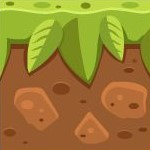
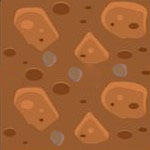
Improved Terrain and Background

diff --git a/client/src/objects/terrain.js b/client/src/objects/terrain.js
@@ -1,30 +1,38 @@
 import Phaser from 'phaser';
 
 export class Terrain extends Phaser.GameObjects.Sprite {
-    constructor(scene, x, y, dirtTile, player) {
+    constructor(scene, x, y, grassTile, dirtTile, player) {
         super(scene, x, y);
 
         var tileSize = 70;
+        var collider;
+        var tile;
 
         const grid = [ 
         [0, 0, 0, 0, 0, 0, 0, 0, 0, 0, 0, 0, 0, 0, 0, 0, 0, 0, 0, 0, 0, 0, 0, 0, 0, 0, 0, 0, 0, 0, 0, 0, 0, 0, 0, 0, 0, 0, 0, 0, 0, 0, 0, 0, 0, 0, 0, 0, 0, 0, 0, 0, 0, 0, 0, 0, 0, 0, 0, 0],
         [0, 0, 0, 0, 0, 0, 0, 0, 0, 0, 0, 0, 0, 0, 0, 0, 0, 0, 0, 0, 0, 0, 0, 0, 0, 0, 0, 0, 0, 0, 0, 0, 0, 0, 0, 0, 0, 0, 0, 0, 0, 0, 0, 0, 0, 0, 0, 0, 0, 0, 0, 0, 0, 0, 0, 0, 0, 0, 0, 0],
-        [0, 0, 0, 0, 0, 0, 0, 0, 0, 0, 0, 0, 0, 0, 0, 0, 0, 0, 0, 0, 0, 0, 0, 0, 0, 0, 0, 0, 0, 0, 0, 0, 1, 1, 1, 0, 0, 0, 0, 0, 0, 0, 0, 0, 0, 0, 0, 0, 0, 0, 0, 0, 0, 0, 0, 0, 0, 0, 0, 0],
-        [0, 0, 0, 0, 0, 0, 0, 0, 0, 0, 0, 0, 0, 0, 0, 0, 0, 0, 0, 0, 0, 0, 0, 0, 0, 0, 0, 0, 0, 0, 0, 1, 0, 0, 0, 0, 0, 0, 0, 0, 0, 0, 0, 0, 0, 0, 0, 0, 0, 0, 0, 0, 0, 0, 0, 0, 0, 0, 0, 0],
+        [0, 0, 0, 0, 0, 0, 0, 0, 0, 0, 0, 0, 0, 0, 0, 0, 0, 0, 0, 0, 0, 0, 0, 0, 0, 0, 0, 0, 0, 0, 0, 0, 1, 1, 1, 1, 0, 0, 0, 0, 0, 0, 0, 0, 0, 0, 0, 0, 0, 0, 0, 0, 0, 0, 0, 0, 0, 0, 0, 0],
+        [0, 0, 0, 0, 0, 0, 0, 0, 0, 0, 0, 0, 0, 0, 0, 0, 0, 0, 0, 0, 0, 0, 0, 0, 0, 0, 0, 0, 0, 0, 0, 0, 0, 0, 0, 0, 0, 0, 0, 0, 0, 0, 0, 0, 0, 0, 0, 0, 0, 0, 0, 0, 0, 0, 0, 0, 0, 0, 0, 0],
         [0, 0, 0, 0, 0, 0, 0, 0, 0, 0, 0, 0, 0, 0, 0, 0, 0, 0, 0, 0, 0, 0, 0, 0, 0, 0, 0, 0, 0, 0, 0, 0, 0, 0, 0, 0, 0, 0, 1, 1, 0, 0, 0, 0, 0, 0, 0, 0, 0, 0, 0, 0, 0, 0, 0, 0, 0, 0, 0, 0],
-        [0, 0, 0, 0, 0, 0, 0, 0, 1, 1, 0, 0, 0, 1, 1, 1, 1, 1, 1, 1, 0, 0, 0, 0, 0, 0, 0, 0, 1, 1, 0, 0, 0, 1, 1, 1, 1, 1, 1, 0, 0, 0, 0, 0, 0, 0, 0, 0, 1, 1, 0, 0, 0, 1, 1, 1, 1, 1, 1, 1],
+        [0, 0, 0, 0, 0, 0, 0, 0, 1, 1, 0, 0, 0, 1, 1, 1, 1, 1, 1, 1, 0, 0, 0, 0, 0, 0, 0, 0, 1, 1, 0, 0, 0, 1, 1, 1, 1, 1, 2, 0, 0, 0, 0, 0, 0, 0, 0, 0, 1, 1, 0, 0, 0, 1, 1, 1, 1, 1, 1, 1],
         [0, 0, 0, 0, 0, 0, 0, 0, 0, 0, 0, 0, 0, 0, 0, 0, 0, 0, 0, 0, 0, 0, 0, 0, 0, 0, 0, 0, 0, 0, 0, 0, 0, 0, 0, 0, 0, 0, 0, 0, 0, 0, 0, 0, 0, 0, 0, 0, 0, 0, 0, 0, 0, 0, 0, 0, 0, 0, 0, 0],
         [0, 0, 0, 1, 1, 1, 0, 0, 0, 0, 0, 0, 0, 0, 0, 0, 0, 0, 0, 0, 0, 0, 0, 0, 1, 1, 1, 0, 0, 0, 0, 0, 0, 0, 0, 0, 0, 0, 0, 0, 0, 0, 1, 1, 1, 1, 0, 0, 0, 0, 0, 0, 0, 0, 0, 0, 0, 0, 0, 0],
         [0, 0, 0, 0, 0, 0, 0, 0, 0, 0, 0, 1, 1, 1, 1, 1, 1, 1, 1, 1, 0, 0, 0, 0, 0, 0, 0, 0, 0, 0, 0, 1, 1, 0, 0, 0, 0, 0, 0, 1, 0, 0, 0, 0, 0, 0, 0, 0, 0, 0, 0, 1, 1, 1, 1, 1, 1, 1, 1, 1],
-        [0, 0, 0, 0, 0, 0, 0, 0, 0, 1, 1, 1, 1, 1, 1, 1, 1, 1, 1, 1, 1, 0, 0, 1, 0, 0, 0, 0, 0, 1, 1, 1, 1, 0, 0, 0, 0, 0, 1, 1, 0, 0, 0, 0, 0, 0, 0, 0, 0, 1, 1, 1, 1, 1, 1, 1, 1, 1, 1, 1],
-        [1, 1, 1, 1, 1, 0, 0, 0, 1, 1, 1, 1, 1, 1, 1, 1, 1, 1, 1, 1, 1, 1, 1, 0, 0, 0, 0, 0, 1, 1, 1, 1, 1, 1, 1, 1, 1, 1, 1, 1, 0, 0, 0, 0, 0, 0, 1, 1, 1, 1, 1, 1, 1, 1, 1, 1, 1, 1, 1, 1]
+        [0, 0, 0, 0, 0, 0, 0, 0, 0, 1, 1, 2, 2, 2, 2, 2, 2, 2, 2, 2, 1, 1, 1, 1, 0, 0, 0, 0, 0, 1, 1, 2, 2, 0, 0, 0, 0, 0, 1, 2, 0, 0, 0, 0, 0, 0, 0, 0, 0, 1, 1, 2, 2, 2, 2, 2, 2, 2, 2, 2],
+        [1, 1, 1, 1, 1, 0, 0, 0, 1, 2, 2, 2, 2, 2, 2, 2, 2, 2, 2, 2, 2, 2, 2, 2, 0, 0, 0, 0, 1, 2, 2, 2, 2, 1, 1, 1, 1, 1, 2, 2, 0, 0, 0, 0, 0, 0, 1, 1, 1, 2, 2, 2, 2, 2, 2, 2, 2, 2, 2, 2]
     ];
 
         for (let i = 0; i < grid.length; i++) {
             for (let j = 0; j < grid[i].length; j++) {
                 if (grid[i][j] == 1) {
-                    var tile = scene.physics.add.sprite(j*tileSize, i*tileSize, dirtTile).setDisplaySize(tileSize, tileSize).setOrigin(0, 0);
-                    var collider = scene.physics.add.collider(player, tile);
+                    tile = scene.physics.add.sprite(j*tileSize, i*tileSize, grassTile).setDisplaySize(tileSize, tileSize).setOrigin(0, 0);
+                    collider = scene.physics.add.collider(player, tile);
+                    tile.setImmovable(true);
+                    tile.body.allowGravity = false;
+                }
+                else if(grid[i][j] == 2){
+                    tile = scene.physics.add.sprite(j*tileSize, i*tileSize, dirtTile).setDisplaySize(tileSize, tileSize).setOrigin(0, 0);
+                    collider = scene.physics.add.collider(player, tile);
                     tile.setImmovable(true);
                     tile.body.allowGravity = false;
                 }

diff --git a/client/src/index.js b/client/src/index.js
@@ -1,6 +1,7 @@
 import Phaser from 'phaser';
 import { Terrain } from './objects/terrain';
 
+import grassTileImg from './assets/grassTile.jpg';
 import dirtTileImg from './assets/dirtTile.jpg';
 import backgroundImg from './assets/oblakiBG.jpg'
 import { Player } from './objects/player';
@@ -18,17 +19,20 @@ class Game extends Phaser.Scene {
 
     preload() {
         this.load.image('dirtTile', dirtTileImg);
+        this.load.image('grassTile', grassTileImg);
         this.load.image('background', backgroundImg);
         this.load.image('player', playerImg);
     }
 
     create() {
-        this.add.image(0, 0, 'background').setOrigin(0, 0).setScale(2.7);
-        
-        this.player = new Player(this, 150, 650, 'player');
+
+        this.bg = this.add.image(0, 0, 'background').setOrigin(0, 0).setScale(0.8);
+        this.player = new Player(this, 100, 650, 'player');
         this.add.existing(this.player);
-        this.cameras.main.startFollow(this.player, false, 1, 1, -550, 200);
-        this.add.existing(new Terrain(this, 0, 0, 'dirtTile', this.player));
+        this.cameras.main.startFollow(this.player, false, 1, 1, -350, 200);
+        this.bg.setScrollFactor(0);
+        this.add.existing(new Terrain(this, 0, 0, 'grassTile', 'dirtTile', this.player));
+        
 
         this.cursors = this.input.keyboard.createCursorKeys();
         this.wasd = this.input.keyboard.addKeys('W,S,A,D');
@@ -60,16 +64,16 @@ const config = {
     parent: "game",
     width: window.innerWidth,
     height: window.innerHeight,
-    physics: {
-        default: 'arcade',
-        arcade: {
-            gravity: { y: 3000 },
-            debug: true
-        }
-    },
     scale: {
         autoCenter: Phaser.Scale.CENTER_HORIZONTALLY,
         mode: Phaser.Scale.NONE, 
+    },
+    physics: {
+        default: 'arcade',
+        arcade: {
+            //gravity: { y: 300 },
+            debug: false
+        }
     },
     scene: Game,
 };
